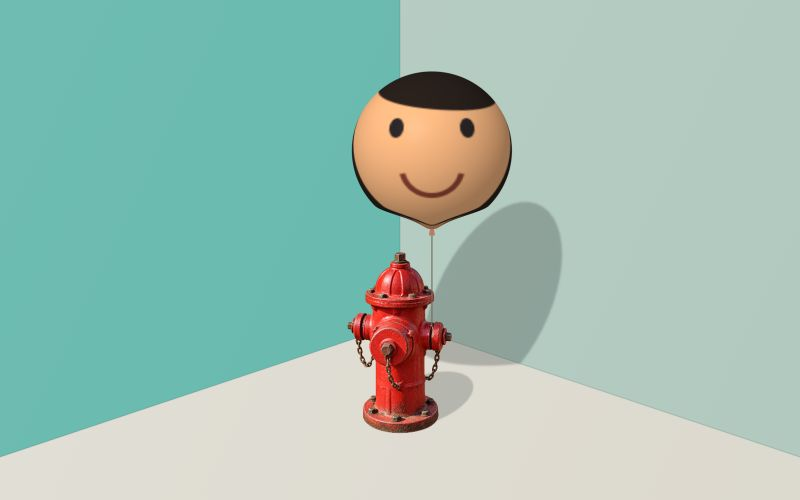
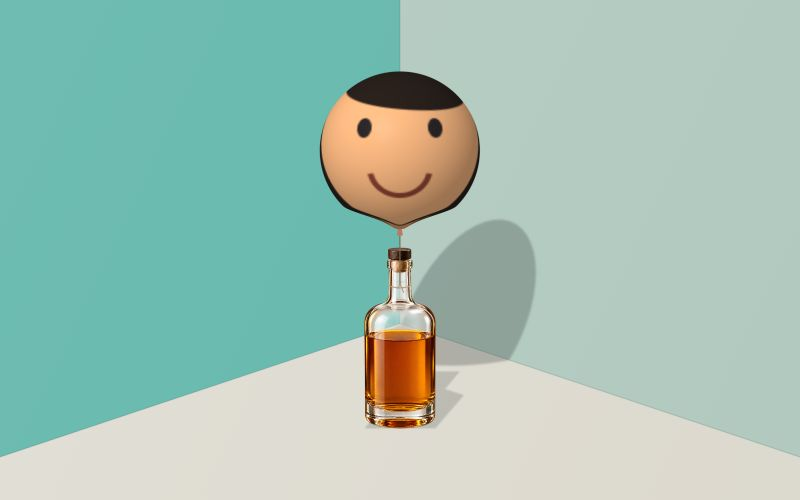
feat: 爆炸頭效果改為酒瓶繫氣球

Changed region(s): [[0.375, 0.12, 0.7188, 0.87]]

diff --git a/effects/exploding-head/effect.js b/effects/exploding-head/effect.js
@@ -1,12 +1,12 @@
 import { MAX_SCALE, resetState, pump, advance, estimateHead, fractureBalloon, resetSwing, trackSwing, trackRoll, advanceSwing } from './physics.mjs';
-import { createSceneAssets,sceneLayout,createTether,setRopeLength,advanceTether,scenePose,drawRoomScene,drawHydrant,drawTether } from './scene.mjs';
+import { createSceneAssets,sceneLayout,createTether,setRopeLength,advanceTether,scenePose,drawRoomScene,drawBottle,drawTether } from './scene.mjs';
 import { placeShard,advanceGroundShard,advanceWindShard,shardPose,clipRoad,drawBalloonShadow,drawShardShadow } from './ground.mjs';
 import { createBalloon } from './balloon.mjs';
 
 const shell = Shell.init({ id: 'exploding-head' });
 const canvas = document.createElement('canvas');
 canvas.className = 'exploding-stage';
-canvas.setAttribute('aria-label', t('消防栓上的臉部氣球'));
+canvas.setAttribute('aria-label', t('酒瓶上的臉部氣球'));
 shell.container.append(canvas);
 const ctx = canvas.getContext('2d');
 const video = document.createElement('video');
@@ -72,7 +72,7 @@ function updateUI() {
     : !tracked ? (state.exploded ? '追蹤遺失，氣球已爆炸；按重置再玩一次。' : '請一個人正對鏡頭，讓五官完整入鏡。')
     : state.exploded ? '砰！碎片飄落，繩子垂下；按重置再玩一次。'
     : state.pressure >= 1 ? '快爆炸了…'
-    : '連點打氣，讓消防栓上的臉部氣球慢慢膨脹！';
+    : '連點打氣，讓酒瓶上的臉部氣球慢慢膨脹！';
   if (key !== statusKey) { status.textContent = t(key); statusKey = key; }
 }
 
@@ -244,7 +244,7 @@ function draw(now) {
   for(const piece of particles) drawShardShadow(ctx,scene,piece);
   const ordered=[...particles].sort((a,b)=>b.gz-a.gz);
   for(const piece of ordered) if(piece.gz>=0) drawPiece(piece);
-  drawHydrant(ctx,scene,sceneAssets);
+  drawBottle(ctx,scene,sceneAssets);
   drawTether(ctx,tether,scene,lastPose);
   if(lastPose) {
     ctx.save();ctx.translate(lastPose.x,lastPose.y);ctx.rotate(lastPose.angle);
@@ -375,7 +375,7 @@ async function start() {
   try { balloon = createBalloon(document); }
   catch (error) { fail(error, '無法建立 3D 氣球，請啟用瀏覽器硬體加速，並使用 Chrome／Edge 重新整理。'); return; }
   sceneAssets=createSceneAssets(document);
-  const assetsReady=sceneAssets.ready.catch(error=>fail(error,'消防栓素材載入失敗，請確認圖片完整後重新整理。'));
+  const assetsReady=sceneAssets.ready.catch(error=>fail(error,'酒瓶素材載入失敗，請確認圖片完整後重新整理。'));
   try { await camera(); }
   catch (error) {
     fail(error, '無法開啟攝影機，請允許攝影機權限、關閉占用相機的程式，再經 start.bat 或 HTTPS 開啟並重新整理。');

diff --git a/assets/i18n.js b/assets/i18n.js
@@ -121,6 +121,11 @@
     "充氣速度": "Inflation speed",
     "魚眼程度": "Fisheye strength",
     "主色調": "Main color",
+    "酒瓶上的臉部氣球": "A face balloon tied to a bottle",
+    "連點打氣，讓酒瓶上的臉部氣球慢慢膨脹！": "Tap Pump to inflate the face balloon tied to the bottle!",
+    "酒瓶素材載入失敗，請確認圖片完整後重新整理。": "The bottle image could not load. Check that the image file is complete, then refresh.",
+    "把你的臉變成繫在酒瓶上的立體氣球，打氣直到爆炸": "Turn your face into a 3D balloon tied to a bottle, then pump until it pops",
+    "本地模型擷取即時五官，貼滿不透明立體氣球；兩面牆與地板自動配色，氣球繫在裝有酒液的玻璃瓶頸。": "Local models wrap your live facial features around an opaque 3D balloon. Two walls and a floor use coordinated colors; the balloon is tied around the neck of a glass bottle containing liquor.",
     "把你的臉變成牆角消防栓上的立體氣球，打氣直到爆炸": "Turn your face into a 3D balloon tied to a hydrant in a room corner, then pump until it pops",
     "左右移頭或歪頭帶動氣球；連點打氣，碎片全部落地後才能重置。設定可調主色調、自動配色牆面、繩長、充氣速度、最大尺寸與魚眼程度。": "Move or tilt your head to swing the balloon. Tap Pump, then wait for every piece to land before Reset. Adjust the main color with matching walls, string length, inflation speed, maximum size and fisheye strength.",
     "本地模型擷取即時五官，貼滿不透明立體氣球；兩面牆與地板自動配色，保留寫實消防栓。": "Local models wrap your live facial features around an opaque 3D balloon. Two walls and a floor use coordinated colors beside the realistic hydrant.",

diff --git a/effects/effects.js b/effects/effects.js
@@ -42,11 +42,11 @@ window.EFFECTS = [
     id: "exploding-head",
     title: "爆炸頭",
     category: "身體動作",
-    description: "把你的臉變成牆角消防栓上的立體氣球，打氣直到爆炸",
+    description: "把你的臉變成繫在酒瓶上的立體氣球，打氣直到爆炸",
     instructions: "左右移頭或歪頭帶動氣球；連點打氣，碎片全部落地後才能重置。設定可調主色調、自動配色牆面、繩長、充氣速度、最大尺寸與魚眼程度。",
     tech: ["MediaPipe Image Segmenter", "MediaPipe Face Detector", "WebGL", "Canvas 2D", "Web Audio API", "getUserMedia"],
     principle: [
-      "本地模型擷取即時五官，貼滿不透明立體氣球；兩面牆與地板自動配色，保留寫實消防栓。",
+      "本地模型擷取即時五官，貼滿不透明立體氣球；兩面牆與地板自動配色，氣球繫在裝有酒液的玻璃瓶頸。",
       "氣球從綁點垂直上浮，左右移頭與眼睛連線傾角帶動甩動；繩長約束、阻尼與微風讓球自然回穩。",
       "同一點光源將球影投向有限牆面與地板，接縫連續；碎片全部落地後，重置以陣風吹走再生成新球。"
     ],

diff --git a/effects/exploding-head/README.md b/effects/exploding-head/README.md
@@ -1,45 +1,45 @@
 # 爆炸頭
 
-你的五官貼滿有曲面光影的立體氣球，綁在兩面牆角落裡的紅色消防栓上。選一個主色，牆面與地板自動搭配柔和色彩；球影會跨牆腳投在牆面及地板。氣球垂直上浮，左右移頭與歪頭帶動擺動；打氣會彈性膨脹，到達上限後碎成不規則薄片飄落，失去浮力的繩子垂下。主畫面不顯示真人肩頸或身體。
+你的五官貼滿有曲面光影的立體氣球，繫在地上裝有琥珀酒液的透明玻璃瓶頸。選一個主色，兩面牆與地板自動搭配柔和色彩；球影會跨牆腳投在牆面及地板。氣球垂直上浮，左右移頭與歪頭帶動擺動；打氣會彈性膨脹，到達上限後碎成不規則薄片飄落，失去浮力的繩子垂下。主畫面不顯示真人肩頸或身體。
 
 ## 操作與限制
 
 - 一個人正對鏡頭，讓五官完整入鏡。左右移頭或歪頭可帶動氣球甩動，頭擺正後回到綁點上方；鏡頭距離不影響場景比例。
 - 點擊下方「打氣」，預設 12 下到頂；等待視覺膨脹接近上限才爆炸。碎片仍在空中或微彈時顯示「碎片飄落中…」並禁用按鈕；全部完成落地後才開放「重置」。按下後約兩秒陣風捲起並吹走碎片，再生成直立新球；這段期間不能重複點擊或打氣，沒有偵測到臉也遵守相同落地條件並能完成清場。
-- 資訊面板可調主色調（預設青綠）、充氣速度（0.5–2 倍，約 24–6 下）、氣球最大尺寸（場景基準球體的 1.5–4 倍，預設 2.35）。主色只改牆與地板，不改消防栓 PNG 或臉球顏色。改上限保留當次氣量，僅改變球體膨脹與爆炸門檻，絕不縮小或移動消防栓來容納氣球。
-- 繩長可調 0.6–1.5 倍，預設 1；立即重新約束原繩段，保留氣量、球大小與落片。吹風清場中也可調整；加長繩子搭配大球可能超出畫面，不會為容納參數縮小主體。繩子與球整組畫在消防栓前方，短繩或歪頭相交時遮擋一致。
+- 資訊面板可調主色調（預設青綠）、充氣速度（0.5–2 倍，約 24–6 下）、氣球最大尺寸（場景基準球體的 1.5–4 倍，預設 2.35）。主色只改牆與地板，不改酒瓶 PNG 或臉球顏色。改上限保留當次氣量，僅改變球體膨脹與爆炸門檻，絕不縮小或移動酒瓶來容納氣球。
+- 繩長可調 0.6–1.5 倍，預設 1；立即重新約束原繩段，保留氣量、球大小與落片。吹風清場中也可調整；加長繩子搭配大球可能超出畫面，不會為容納參數縮小主體。繩子與球整組畫在酒瓶前方，短繩或歪頭相交時遮擋一致。
 - 魚眼程度為 0–1，預設 0.25；增加時五官中央放大、邊緣壓縮，調整不重置氣量或追蹤。
-- 初次尚未偵測到臉時先顯示牆角與消防栓。無臉、多臉或相機停幀時暫停打氣，已有的臉部貼圖保留在飄動氣球上；重新辨識後恢復即時五官。爆炸後不會因找回臉而自行復原。
+- 初次尚未偵測到臉時先顯示牆角與酒瓶。無臉、多臉或相機停幀時暫停打氣，已有的臉部貼圖保留在飄動氣球上；重新辨識後恢復即時五官。爆炸後不會因找回臉而自行復原。
 - 載入、錯誤、背景分頁及充滿等待爆炸時禁用打氣；切到背景暫停動畫與推論。音效由 Web Audio 合成，不需要麥克風。
 - 以單人正面為基準。側臉、遮擋、極暗光線或背景分割錯誤可能造成貼圖失真；不是完整 3D 臉部重建。
 
 ## 技術與需求
 
-使用既有 MediaPipe Tasks Vision 0.10.14 的 ImageSegmenter 與 FaceDetector，CPU 推論、原生 WebGL 球面著色及 Canvas 2D 場景，沒有新增程式依賴。沿用本地 `hydrant.png` 與原 `balloon.mjs`，兩者檔案沒有改動；`street.png` 保留但不再載入或顯示。兩模型讀取同一張最多 640 像素寬的相機快照。前景遮罩只用於臉部紋理，不將原始相機影像或身體合成至主畫布。
+使用既有 MediaPipe Tasks Vision 0.10.14 的 ImageSegmenter 與 FaceDetector，CPU 推論、原生 WebGL 球面著色及 Canvas 2D 場景，沒有新增程式依賴。場景只載入本地透明 `bottle.png`，沿用原 `balloon.mjs`；舊 `hydrant.png` 與 `street.png` 保留但不再載入或顯示。兩模型讀取同一張最多 640 像素寬的相機快照。前景遮罩只用於臉部紋理，不將原始相機影像或身體合成至主畫布。
 
 臉部框略留額頭與下巴，裁成固定 256×256，僅在貼圖時水平鏡像一次；五官放大包覆整顆球。遮罩空隙只由有效前景 RGB 補滿，球內 alpha 不透明。固定 512×512 離屏 WebGL 以球面法線、曲面 UV、方向光與高光呈現立體感；底端收成短氣嘴，接上小結與繩索，沒有頸部接片。
 
 魚眼參數以 GPU uniform 調整球面取樣，0 保留基礎包覆、1 有最強中心放大。舊版方向明暗幅度小且白光加法偏多，容易顯平與褪色；新版保留底色、略增色彩濃度、加深朝光相反側並縮小高光範圍。效果仍會反映原始相機曝光與白平衡。
 
-`scene.mjs` 依視窗安排消防栓、綁點與繩長，與臉框、氣量、最大尺寸分離。`room.mjs` 和 `ground.mjs` 共用 `(x,z,height)`：比例 `1/(1+0.5z)`，地面深度投影係數 0.52。兩牆為 `z=0.65±0.85x`，在中央形成垂直牆角；地板高度為 0，有限前緣 `z=-1.4`，牆高 2.6。地面粒子邊界依同一斜牆深度求出，沒有額外貼圖路面。
+`scene.mjs` 依視窗安排酒瓶、綁點與繩長，與臉框、氣量、最大尺寸分離。`room.mjs` 和 `ground.mjs` 共用 `(x,z,height)`：比例 `1/(1+0.5z)`，地面深度投影係數 0.52。兩牆為 `z=0.65±0.85x`，在中央形成垂直牆角；地板高度為 0，有限前緣 `z=-1.4`，牆高 2.6。地面粒子邊界依同一斜牆深度求出，沒有額外貼圖路面。
 
-v11 將共用鏡頭尺度放大 15%，地板基準向下移動原尺度的 15%；消防栓、氣球、繩與光影一起放大及下移，保持綁點相接。素材、臉球材質與各項操作不變，預設最大氣球仍完整可見。
+本版沿用 v11 共用鏡頭尺度與地板位置，酒瓶顯示高度保留相同的 `unit×0.44`，臉球尺寸與材質不變。瓶頸較原綁點高，因此縮短基準繩長，讓預設氣球下緣維持原位置；瓶、繩與球中心對齊。瓶頸後弧先畫，再畫瓶圖，最後畫前弧與繩結，主繩接在前側繩結，且不因繩長、歪頭或爆炸脫離瓶頸。
 
-固定點光源在 `(-0.55,-1.3,2.3)`。球的旋轉橢圓輪廓近似成世界空間直立薄面，各輪廓邊與光源形成光錐，再以同一光錐裁切有限接收面；`rayHit` 另以平面方程求最近正命中。光源在凸形房間內，因此每條光線只有一個出口接收面；牆地交界共享位置，不會把整顆影子重複貼在多面。陰影按遮擋物與接收面的距離調濃淡／柔化，跨面多邊形合併後才模糊一次以免亮縫。消防栓影用同光源的輪廓近似，碎片接觸影也用相同投影；爆炸後不再畫球影。這是幾何投影加球形輪廓近似，並非完整球體光線追蹤或真實面光源半影。
+固定點光源在 `(-0.55,-1.3,2.3)`。球的旋轉橢圓輪廓近似成世界空間直立薄面，各輪廓邊與光源形成光錐，再以同一光錐裁切有限接收面；`rayHit` 另以平面方程求最近正命中。光源在凸形房間內，因此每條光線只有一個出口接收面；牆地交界共享位置，不會把整顆影子重複貼在多面。陰影按遮擋物與接收面的距離調濃淡／柔化，跨面多邊形合併後才模糊一次以免亮縫。酒瓶影用同光源的輪廓近似，碎片接觸影也用相同投影；爆炸後不再畫球影。這是幾何投影加球形輪廓近似，並非完整球體光線追蹤或真實面光源半影。
 
-主色以 HSL 推導同色系較亮、較低彩的另一面牆，以及暖奶油地板；黑白灰保持中性色且以明度區分。各面依同一光源與法線著色，牆腳細暗線只表達接觸遮蔽。場景沒有染色覆蓋到消防栓或人臉。
+主色以 HSL 推導同色系較亮、較低彩的另一面牆，以及暖奶油地板；黑白灰保持中性色且以明度區分。各面依同一光源與法線著色，牆腳細暗線只表達接觸遮蔽。場景沒有染色覆蓋到酒瓶或人臉。
 
-繩子由 13 個 Verlet 節點組成，初始垂直、固定底端並反覆約束每段長度。末端浮力與輕微零均值風力牽引球體，臉部左右位移驅動阻尼角彈簧，將慣性傳入繩索；球體方向跟隨末段繩子的張力並延遲回穩。爆炸移除浮力，繩索受重力回落，路面限制其下落。重置重新垂直綁好；失追、重獲、相機尺寸改變與切分頁會清除追蹤輸入，避免座標跳躍造成暴衝。這是輕量的繩索動力學近似，沒有消防栓碰撞、空氣流體或完整剛體模擬。
+繩子由 13 個 Verlet 節點組成，初始垂直、固定底端並反覆約束每段長度。末端浮力與輕微零均值風力牽引球體，臉部左右位移驅動阻尼角彈簧，將慣性傳入繩索；球體方向跟隨末段繩子的張力並延遲回穩。爆炸移除浮力，繩索受重力回落，路面限制其下落。重置重新垂直綁好；失追、重獲、相機尺寸改變與切分頁會清除追蹤輸入，避免座標跳躍造成暴衝。這是輕量的繩索動力學近似，沒有酒瓶碰撞、空氣流體或完整剛體模擬。
 
 移頭輸入取原始偵測臉框中心，避免頭髮或前景範圍抵消左右位移；支援低於 750ms 的推論間隔，包含較慢的 250–400ms 模型。鏡像方向一致，停止後阻尼回彈；重新取得追蹤的第一個樣本不施加舊位移。
 
 歪頭使用 FaceDetector 前兩個眼睛關鍵點，先將分別按影格寬高正規化的座標還原，再取鏡像傾角；0.025 弧度死區與低通濾波抑制細微抖動。首個或長間隔樣本使用當前絕對姿態，繩索本身漸進回應；缺失或異常眼點清零，重獲不沿用舊傾角，因此一秒才推論一次仍能歪頭。[MediaPipe 關鍵點座標定義](https://ai.google.dev/edge/api/mediapipe/python/mp/tasks/components/containers/keypoint/NormalizedKeypoint)、[眼睛關鍵點順序](https://github.com/google-ai-edge/mediapipe/blob/master/docs/solutions/face_detection.md)。
 
-爆炸時凍結已著色球面，32 個隨機 Voronoi 區域形成大小不一的薄片，直接沿用球體的畫面位置與角度，並帶入繩端速度。粒子使用地板位置、深度與獨立離地高度，受重力、朝向與面積／質量相關阻力、側向飄擺及角速度阻尼影響。薄片翻面飄落，小幅彈落與滑動後平貼地面；近地有接觸影，前後片與消防栓依深度遮擋。所有落片保留直到重置。這是 2.5D 地板碰撞與牆界限近似，沒有薄片彼此碰撞。
+爆炸時凍結已著色球面，32 個隨機 Voronoi 區域形成大小不一的薄片，直接沿用球體的畫面位置與角度，並帶入繩端速度。粒子使用地板位置、深度與獨立離地高度，受重力、朝向與面積／質量相關阻力、側向飄擺及角速度阻尼影響。薄片翻面飄落，小幅彈落與滑動後平貼地面；近地有接觸影，前後片與酒瓶依深度遮擋。所有落片保留直到重置。這是 2.5D 地板碰撞與牆界限近似，沒有薄片彼此碰撞。
 
 重置以每片實際 `landed`（已完成微彈）判斷，不用固定等待秒數；按鈕及函式入口均防護，最後一片落地當幀立即解鎖。其後使用單一兩秒風階段：保留爆炸狀態與凍結貼圖，喚醒落地碎片、解除畫面邊界反彈，往右上翻飛離場後才清空並綁回直立新球。失追與 resize 不提前生球。時間按真正前景經過秒數計算，內部風力細分步長；切背景暫停，不會因一般物理的 50ms 上限而讓低 FPS 清場拖成數十秒。
 
-每次推論即釋放 mask 結果，離頁關閉模型、相機、音訊、RAF、消防栓圖片與 GPU 貼圖／shader／buffer，包含初始化途中離頁。消防栓素材遺失或載入逾時會顯示錯誤。
+每次推論即釋放 mask 結果，離頁關閉模型、相機、音訊、RAF、酒瓶圖片與 GPU 貼圖／shader／buffer，包含初始化途中離頁。酒瓶素材遺失或載入逾時會顯示錯誤。
 
 - 攝影機；不需麥克風。
 - 建議 Chrome／Edge，需 WebGL 與硬體加速；不支援時顯示明確錯誤。手機或較舊裝置雙模型推論可能較慢，沒有保證幀率。
@@ -60,13 +60,13 @@ node --test effects/exploding-head/effect.test.mjs
 node assets/i18n.test.js
 ```
 
-52 項效果測試涵蓋既有相機／模型／GPU、歪頭、落地重置與低 FPS 清場回歸；新增有限斜牆與地板最近射線命中、光錐接縫／無重複較遠命中、預設球跨牆地投影、四種視窗完整覆蓋、自動主色及中性配色、繩長實際段長／氣量狀態保留，以及短繩左右歪頭的繩球前景順序。Node 的相機與 GPU 為替身，不能代替瀏覽器視覺驗證。
+52 項效果測試涵蓋相機／模型／GPU 生命週期、歪頭、落地重置、低 FPS 清場、有限牆地投影、四種視窗覆蓋、配色與繩長狀態。本版校準瓶底及瓶頸綁點，確認換瓶後預設球底高度不變、只載入一張瓶圖，並保留資產錯誤及釋放測試。Node 的相機與 GPU 為替身，不能代替瀏覽器視覺驗證。
 
-v10 在 Chrome 使用合成人臉與模型替身，實際執行產品 WebGL、Canvas、繩索與落片物理：青綠／珊瑚／黑白配色可辨，兩面牆與地板共三面填滿畫面，球影跨牆地且近拍無亮縫。繩長 0.6→1.5 時，50% 氣量與球／消防栓尺寸固定；短繩左右歪頭的繩球遮擋一致。
+v12 在 Chrome 1920×945 使用合成人臉與模型替身，實際執行產品 WebGL 與 Canvas：瓶圖無背景方框，空瓶頸透出牆面，琥珀酒液及液面清楚；瓶底貼地、瓶頸繩環可辨，球與瓶保持近景構圖。
 
-爆炸後連點仍保留 32 片並禁用重置，全部自然落地才解鎖；風吹約 0.45 秒碎片揚起，1.45 秒全出畫，2 秒後才清空並生新球。地面碎片未穿牆。390×580 與 844×390 在 92% 氣量時，球、繩、消防栓與操作按鈕完整可見。800×500 縮圖使用本版牆角與 75% 氣量的合成笑臉；Chrome 錯誤記錄為空。
+本輪另確認 0.6／1.5 倍繩長及左右歪頭維持瓶頸連接，珊瑚主色下瓶圖透明度正常；爆炸後 32 片自然落地才開放重置，清場後回到新球。390×580 與 844×390 在 92% 氣量時，球、酒瓶與操作按鈕完整；縮圖更新為 800×500 的酒瓶版合成畫面。
 
-本輪動作輸入與模型使用替身，並非新的真人模型測試。v8 曾以真人相機確認五官／魚眼，並驗證相機封鎖提示與本機 CSP 合成載入；這些是歷史驗證範圍。素材用途、位置與原生成提示詞見 [ASSETS.md](./ASSETS.md)。
+本輪動作輸入與模型使用替身，並非新的真人模型測試。歷史版本已驗證牆地接縫、繩長／歪頭、落片與風吹重置；v8 曾以真人相機確認五官／魚眼，並驗證相機封鎖提示與本機 CSP 合成載入。素材用途、位置與原生成提示詞見 [ASSETS.md](./ASSETS.md)。
 
 ## 線上體驗
 

diff --git a/effects/exploding-head/ASSETS.md b/effects/exploding-head/ASSETS.md
@@ -1,13 +1,22 @@
 # 素材來源與目前用途
 
-以下來源素材在先前街景版本使用內建 image_gen 工具生成及編輯；v10 沒有生成或改動 `street.png` 與 `hydrant.png`，執行時不連外網。`thumb.png` 已更新為本版瀏覽器截圖，並非新生成素材。
+素材使用內建 image_gen 工具生成及編輯，執行時不連外網。v12 新增酒瓶，舊街景與消防栓保留但停用。`thumb.png` 為本版瀏覽器截圖，並非新生成素材。
 
 - `street.png`：1536×1024 舊街道底圖，保留檔案但 v10 不再載入或顯示。
[1 lines of base64/hex data omitted]
+- `hydrant.png`：1024×1536 舊透明消防栓，v12 不再載入或顯示；保留原檔。
+- `bottle.png`：1024×1536 透明玻璃酒瓶與琥珀色酒液，保留生成圖片原生 alpha；外部透明、空瓶頸部分透光、液面清楚可見。瓶身有效範圍約 (251,51)–(767,1360)，繩環綁在 y320 的瓶頸。
 - 兩面牆與地板由 `room.mjs` 的有限平面、主色配色與 Canvas 光影即時繪製，不使用背景圖片。
[1 lines of base64/hex data omitted]
 
 ## 最終生成與編輯提示詞
+
+### 酒瓶生成（v12，內建工具）
+
+Use case: product-mockup. Asset type: photorealistic transparent PNG sprite for an interactive web scene. Primary request: a single unbranded clear glass liquor bottle standing upright, with visible rich amber whiskey filling about 65 percent of the bottle body. The empty upper section is clear glass; a readable horizontal curved liquid meniscus, thickness at the base, refraction, realistic reflections and warm luminous amber liquid make its contents unmistakable. Modest broad cylindrical bottle body, rounded shoulders, a clearly defined slender neck, small dark cork stopper. No label or printed text. Camera: frontal with a slight downward viewing angle, so the top ellipse and base volume are visible; no exaggerated perspective. Lighting: soft directional illumination from upper left/front with a controlled rim and realistic glass highlights, matching a pastel room. Composition: portrait 1024x1536 canvas; centered full bottle from cork to thick base with generous transparent margin, bottle occupies roughly x=290..734 and y=90..1450; neck around x=455..569, y=330. Keep edges clean. Background: true transparent alpha outside the bottle, and appropriately semitransparent glass in empty areas. No floor, no cast shadow, no backdrop, no fake checkerboard, no gray or white rectangular background, no balloon, no string, no hands, no other objects, no brand, no watermark. This will be composited over colored walls and a floor; retain realistic amber liquid while allowing the background through the clear glass.
+
+### 酒瓶去背編輯（v12，最終採用）
+
+Use case: background-extraction. Edit target: the supplied photograph of the amber liquor bottle. Isolate EXACTLY this same single glass bottle, preserving its cork, full silhouette, shoulders, neck, beautiful amber liquid level, highlights, thickness and camera angle. REMOVE the entire black/brown gradient backdrop and glow, not just recolor it. Output a TRUE TRANSPARENT PNG with alpha=0 everywhere outside the glass bottle. Absolutely no black, white, colored, gray or checkerboard-painted background; no shadow or glow outside silhouette. The bottle must have a clean alpha cutout. Keep original 1024x1536 canvas and bottle position. If possible use partial alpha in the empty clear glass areas, preserving glass rim highlights and realistic amber contents. Do not draw string or any additional objects. This is an extraction task, do not redesign or relight the bottle.
 
 ### 街景生成
 
